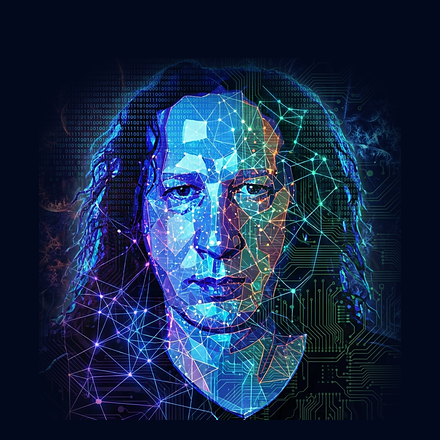
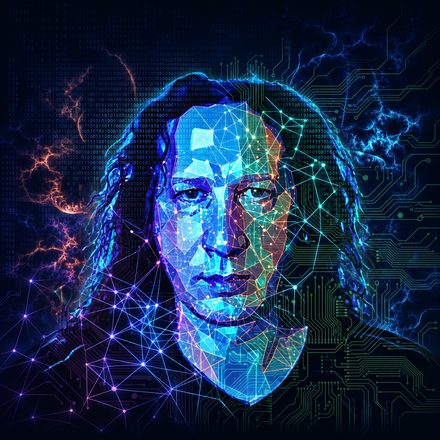
img

diff --git a/app/about/page.tsx b/app/about/page.tsx
@@ -108,7 +108,7 @@ const TEAM_MEMBERS: TeamMember[] = [
     name: "Piotr Sawicki, PhD",
     role: "AI Specialist & Platform Architect",
     initial: "P",
-    avatar: "/piotr_avatar.png?v=2",
+    avatar: "/piotr_avatar.png?v=3",
     avatarFallback: "/peter.jpg",
     avatarMode: "cover",
     paragraphs: [
